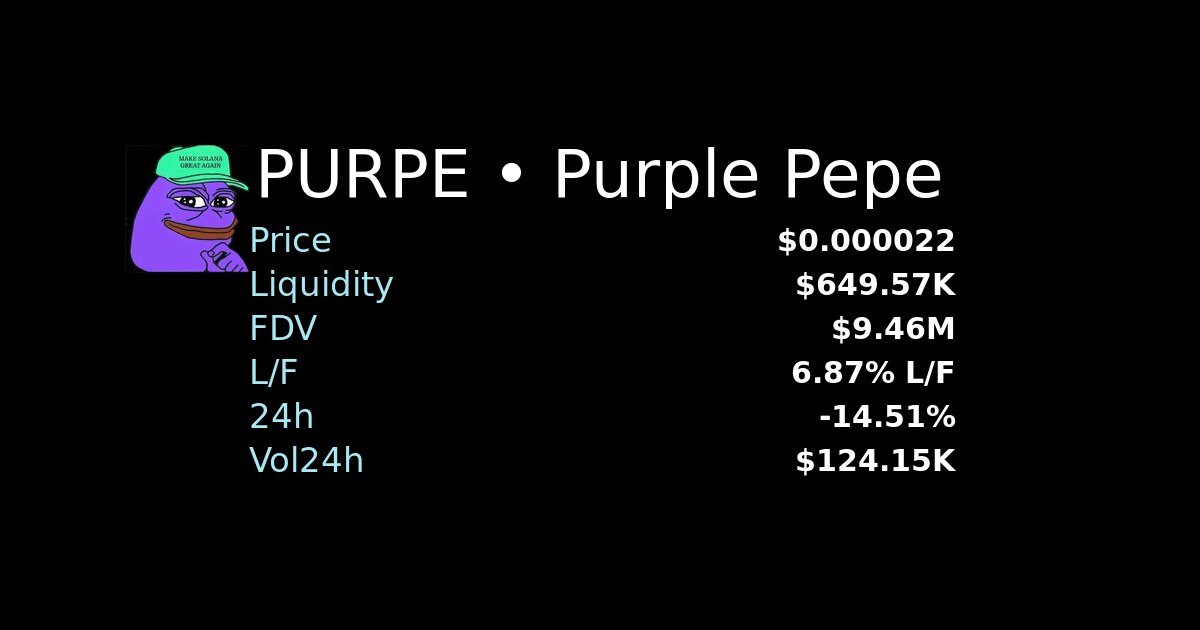
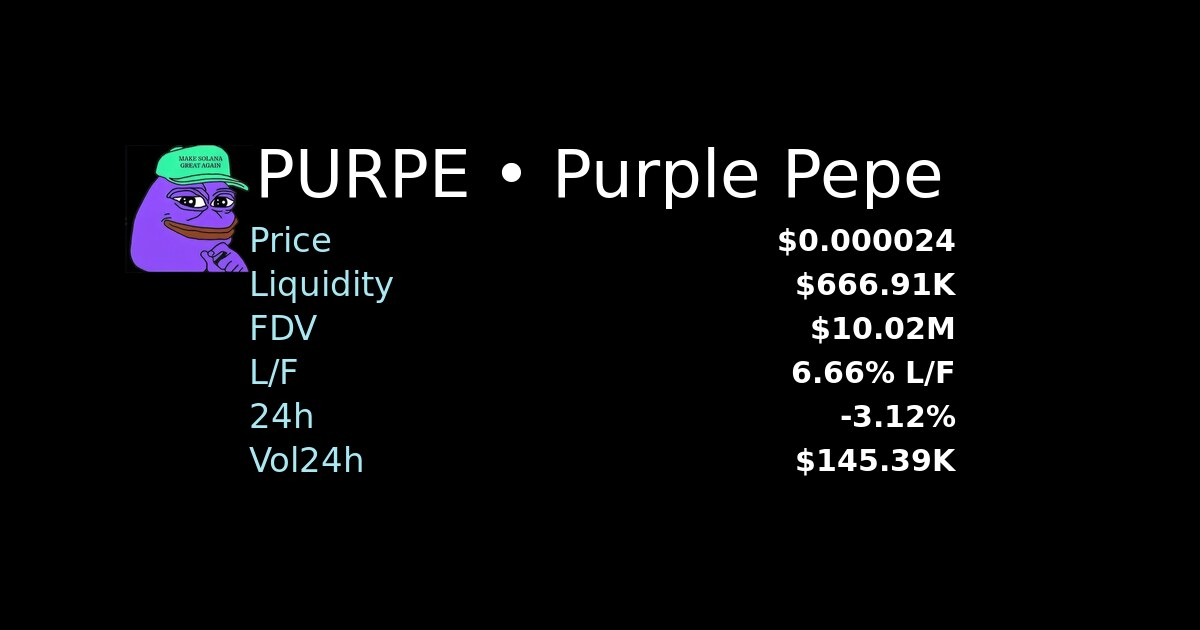
chore: update sitemap & token pages

diff --git a/token/HBoNJ5v8g71s2boRivrHnfSB5MVPLDHHyVjruPfhGkvL/index.html b/token/HBoNJ5v8g71s2boRivrHnfSB5MVPLDHHyVjruPfhGkvL/index.html
@@ -4,14 +4,14 @@
     <meta charset="utf-8" />
     <meta name="viewport" content="width=device-width,initial-scale=1" />
     <title>PURPE on Solana</title>
-    <meta name="description" content="Purple Pepe • Price: $0.000022 • Liquidity: $649.57K" />
+    <meta name="description" content="Purple Pepe • Price: $0.000024 • Liquidity: $666.91K" />
     <meta name="author" content="builders-toronto" />
     <meta name="keywords" content="solana, memecoin, bonk, wif, dog, inu, pepe, cat, meme, ponk, samo, purry, purr, kitty, meow, woof, frog, snek, toad, bob, dino, monke, monkey, ape, corgi, floki, elon" />
 
     <!-- OG -->
     <meta property="og:type" content="website" />
     <meta property="og:title" content="PURPE on Solana" />
-    <meta property="og:description" content="Purple Pepe • Price: $0.000022 • Liquidity: $649.57K" />
+    <meta property="og:description" content="Purple Pepe • Price: $0.000024 • Liquidity: $666.91K" />
     <meta property="og:url" content="https://fdv.lol/token/HBoNJ5v8g71s2boRivrHnfSB5MVPLDHHyVjruPfhGkvL" />
     <meta property="og:image" content="https://fdv.lol/token/HBoNJ5v8g71s2boRivrHnfSB5MVPLDHHyVjruPfhGkvL/og.jpg" />
     <meta property="og:image:width" content="1200" />
@@ -21,7 +21,7 @@
     <!-- Twitter -->
     <meta name="twitter:card" content="summary_large_image" />
     <meta name="twitter:title" content="PURPE on Solana" />
-    <meta name="twitter:description" content="Purple Pepe • Price: $0.000022 • Liquidity: $649.57K" />
+    <meta name="twitter:description" content="Purple Pepe • Price: $0.000024 • Liquidity: $666.91K" />
     <meta name="twitter:image" content="https://fdv.lol/token/HBoNJ5v8g71s2boRivrHnfSB5MVPLDHHyVjruPfhGkvL/og.jpg" />
 
     <link rel="icon" type="image/png" href="/src/assets/images/icons/fdv.lol.ico" />
@@ -35,7 +35,7 @@
       "@type": "WebSite",
       "name": "PURPE on Solana",
       "url": "https://fdv.lol/token/HBoNJ5v8g71s2boRivrHnfSB5MVPLDHHyVjruPfhGkvL",
-      "description": "Purple Pepe • Price: $0.000022 • Liquidity: $649.57K",
+      "description": "Purple Pepe • Price: $0.000024 • Liquidity: $666.91K",
       "keywords": [
         "solana",
         "memecoin",
